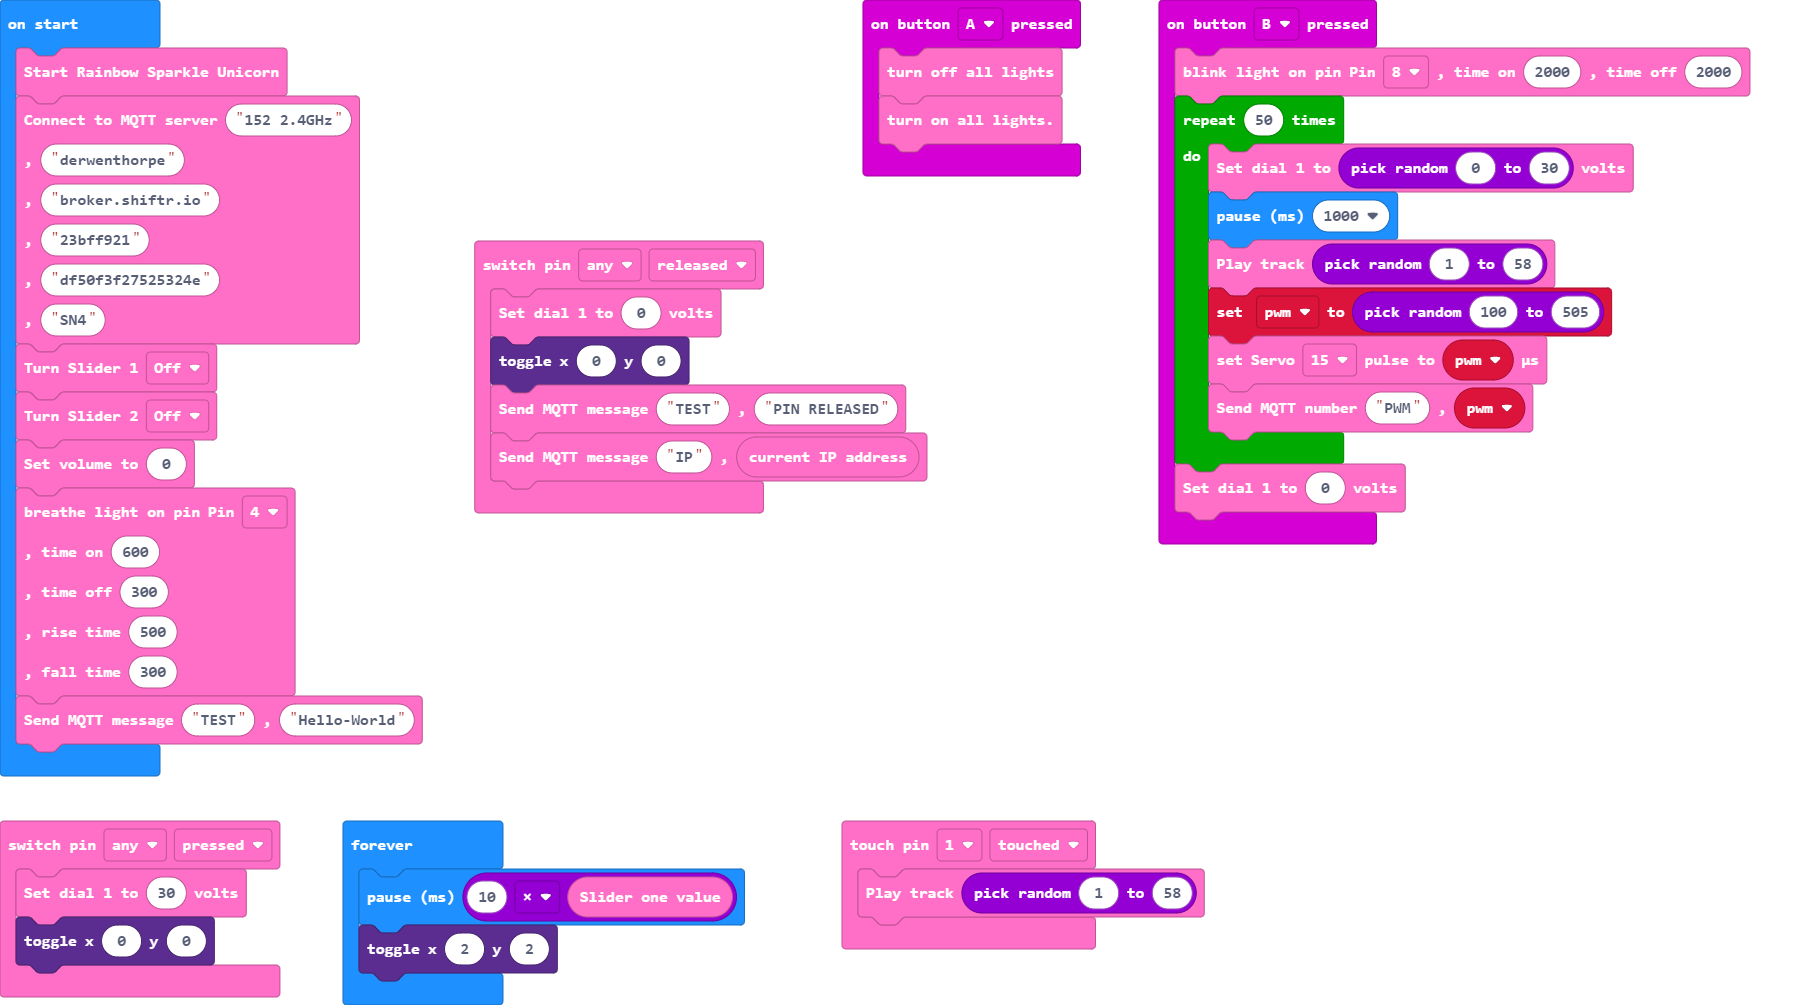
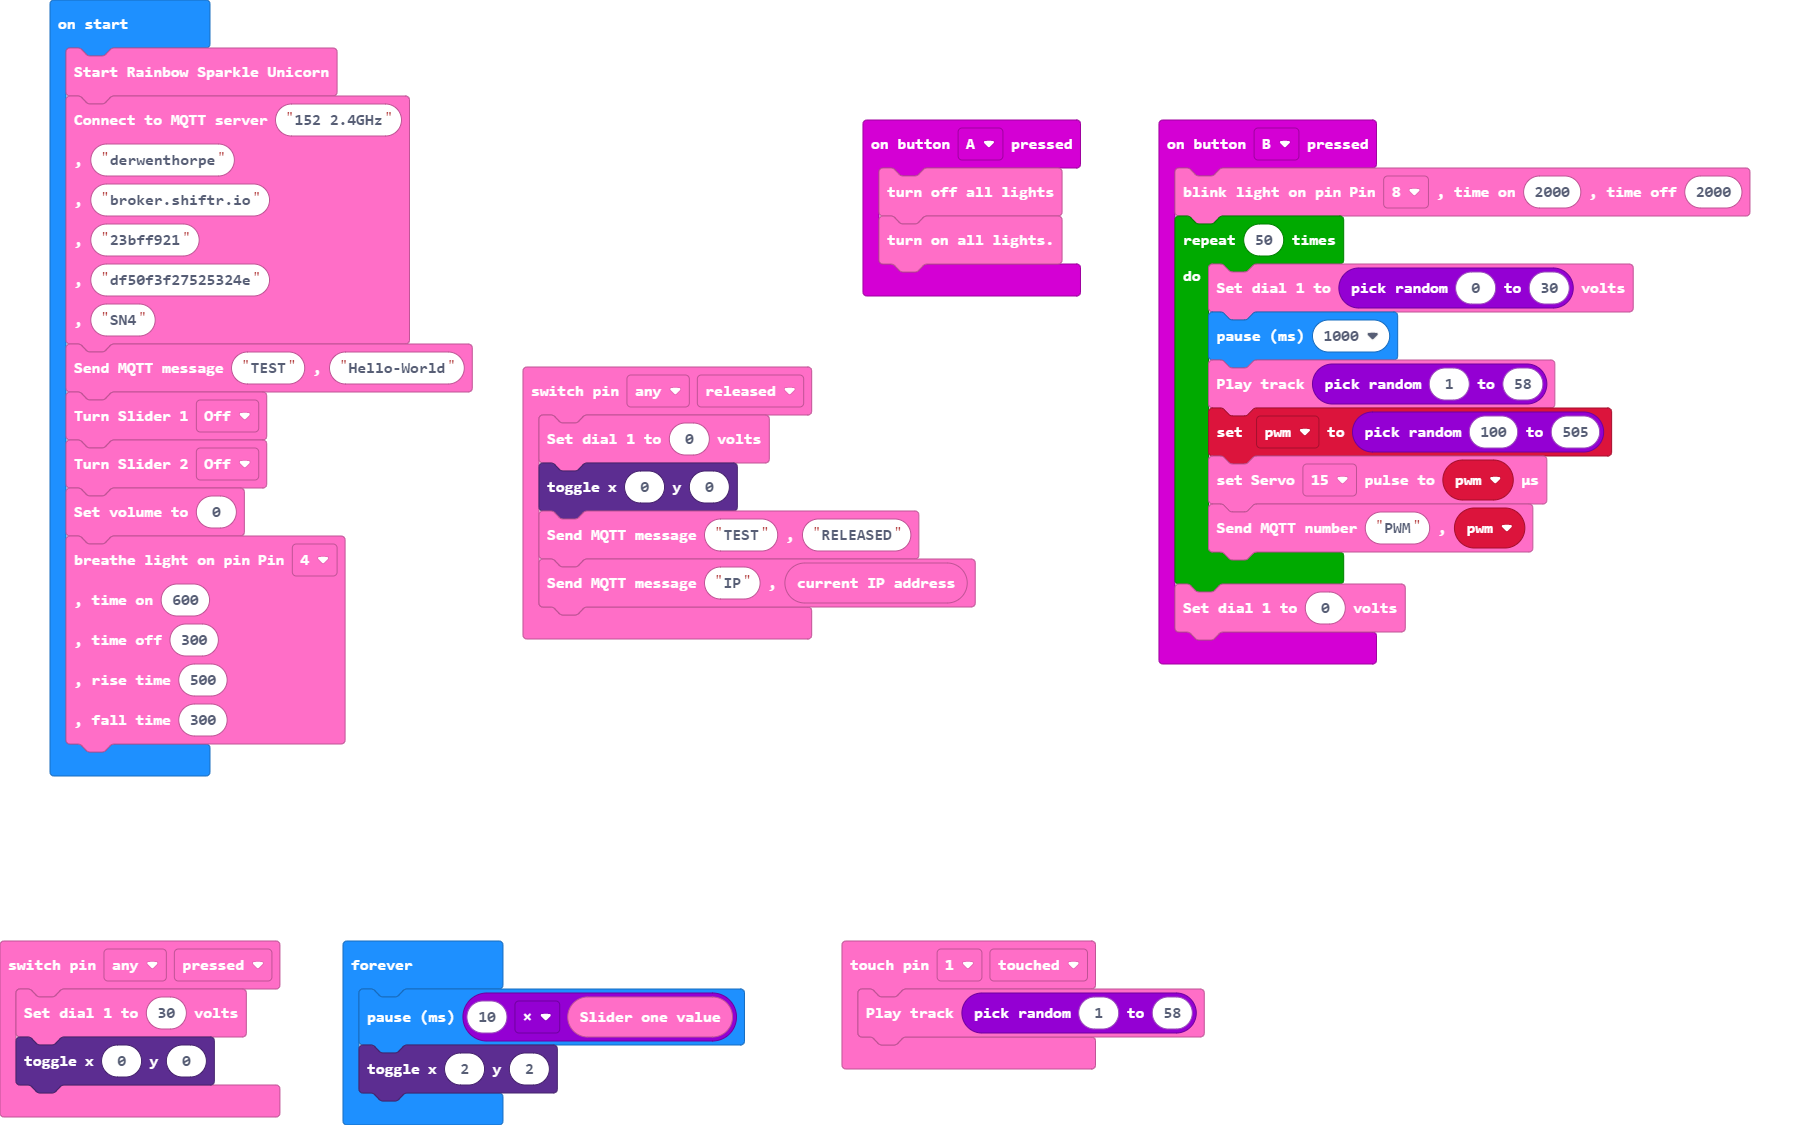
Update main.blocks, main.ts, ns.ts, MQTT.ts

diff --git a/main.ts b/main.ts
@@ -1,7 +1,7 @@
 RainbowSparkleUnicorn.onSwitch(RainbowSparkleUnicorn.switchPins.Any, RainbowSparkleUnicorn.switchState.released, function () {
     RainbowSparkleUnicorn.dial1(0)
     led.toggle(0, 0)
-    RainbowSparkleUnicorn.sendMQTTMessage("TEST", "PIN RELEASED")
+    RainbowSparkleUnicorn.sendMQTTMessage("TEST", "RELEASED")
     RainbowSparkleUnicorn.sendMQTTMessage("IP", RainbowSparkleUnicorn.IPAddress())
 })
 input.onButtonPressed(Button.A, function () {
@@ -37,6 +37,7 @@ RainbowSparkleUnicorn.connectToInterWeb(
 "df50f3f27525324e",
 "SN4"
 )
+RainbowSparkleUnicorn.sendMQTTMessage("TEST", "Hello-World")
 RainbowSparkleUnicorn.turnSlider1(OnOff.OFF)
 RainbowSparkleUnicorn.turnSlider2(OnOff.OFF)
 RainbowSparkleUnicorn.setVolume(0)
@@ -47,7 +48,6 @@ Breathable.Breathable4,
 500,
 300
 )
-RainbowSparkleUnicorn.sendMQTTMessage("TEST", "Hello-World")
 basic.forever(function () {
     basic.pause(10 * RainbowSparkleUnicorn.Slider1())
     led.toggle(2, 2)

diff --git a/ns.ts b/ns.ts
@@ -5,7 +5,6 @@ namespace RainbowSparkleUnicorn {
      * Add into the start function to initialise the board.
      */
     //% block="Start Rainbow Sparkle Unicorn"
-    //% weight=65
     export function start(): void {
 
         serial.redirect(
@@ -13,6 +12,15 @@ namespace RainbowSparkleUnicorn {
             SerialPin.P2,
             BaudRate.BaudRate115200
         )
+
+        basic.pause(10);
+
+        //TODO: keeps crashing...I suspect due to chaos on the UART
+        //sendMessage("START");
+
+        //   for (let index = 0; index < 11; index++) {
+        //     basic.pause(100);
+        //   }   
 
         basic.showIcon(IconNames.Heart)
     }

diff --git a/MQTT.ts b/MQTT.ts
@@ -21,7 +21,14 @@ namespace RainbowSparkleUnicorn {
         sendMessage("T6," + MQTTKey); 
         sendMessage("T7," + MQTTPassword);
         sendMessage("T8");
-        basic.pause(1000);        
+
+          for (let index = 0; index < 11; index++) {
+            basic.pause(1000);
+
+            if (IPAddress() != "0.0.0.0"){
+                break;
+            }
+          }        
     }
     
     //% subcategory="MQTT" 
